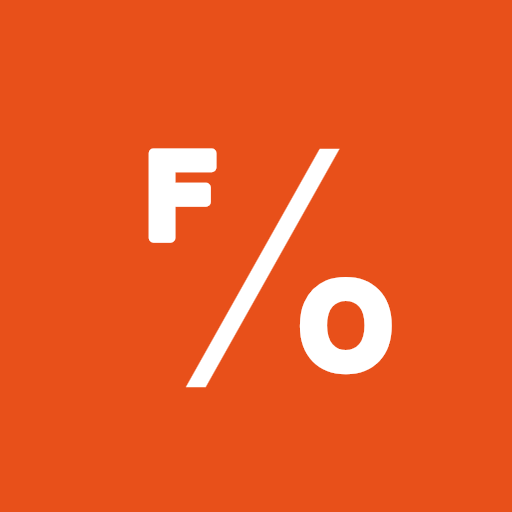
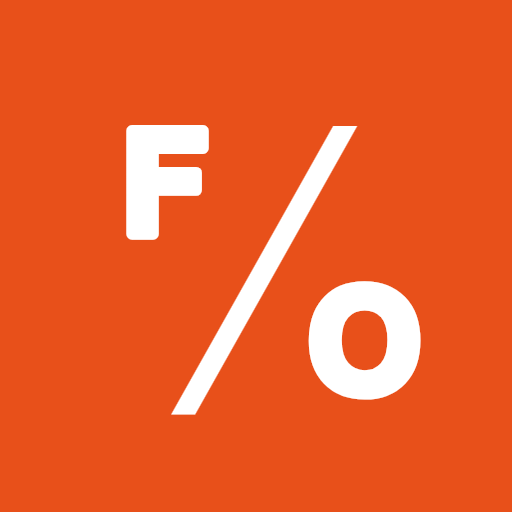
v6

diff --git a/generate-icons.html b/generate-icons.html
@@ -59,9 +59,9 @@ function drawIcon(canvas, maskable) {
   // For standard: use full SVG coordinates
   var s = size / 512;
   if (maskable) {
-    s = s * 0.95;
+    s = s * 1.15;
     ctx.save();
-    ctx.translate(size * 0.025, size * 0.025);
+    ctx.translate(size * -0.075, size * -0.075);
   }
 
   // Font settings matching SVG
